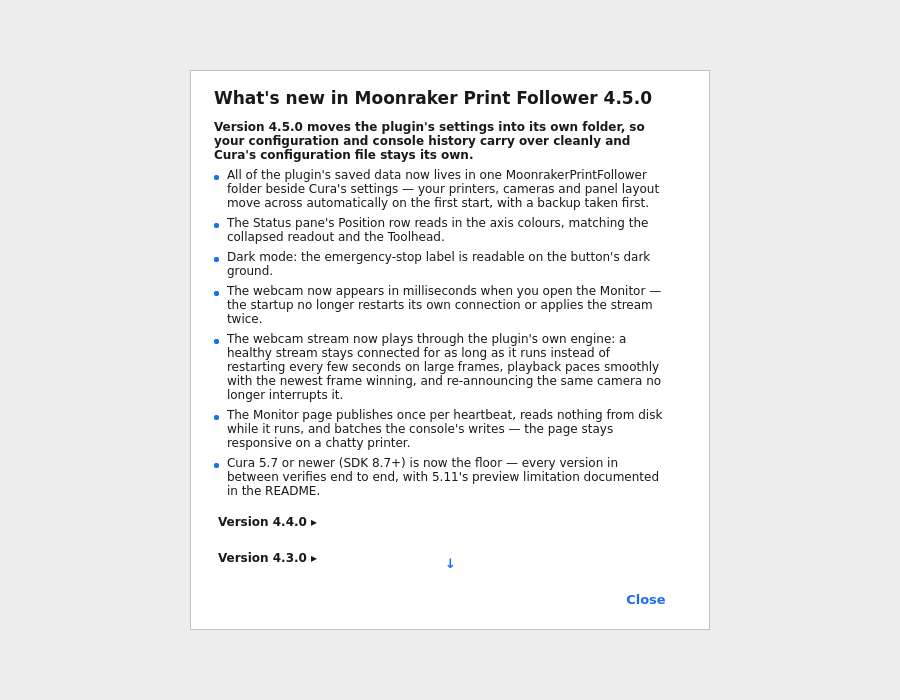
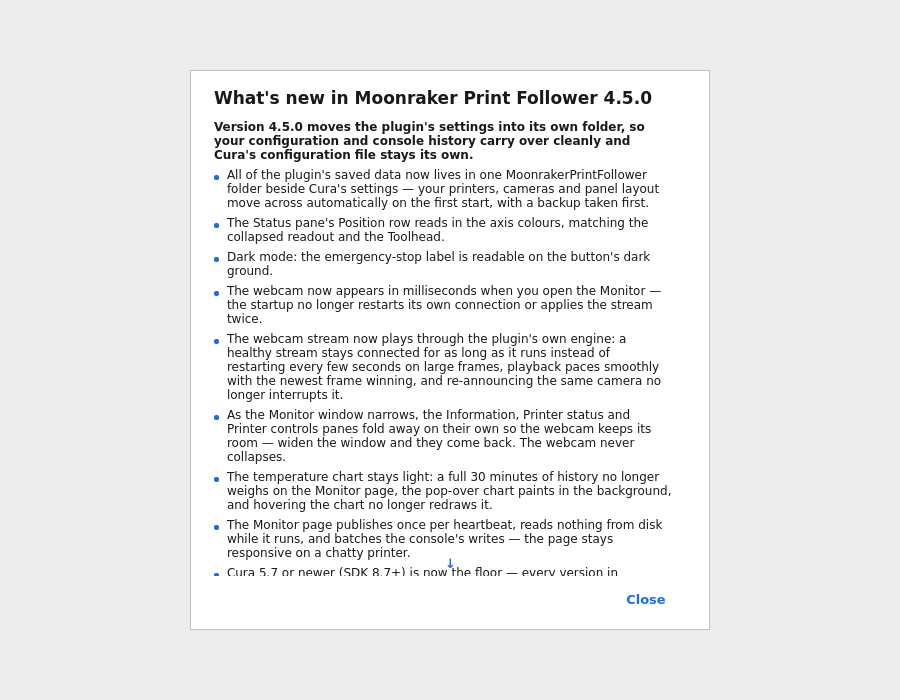
4.5.0: the pre-release hardening pass
- A machine switch now retires the chart pop-over's hydration state:
  a cached monitor that lost ownership serves the dormant full
  payload until the chart is explicitly reopened (the A -> B -> A
  reuse regression is covered in the ownership battery).
- The Release matrix gains the firstinstall leg and the missing
  configure and stress groups: the workflow now runs every unit the
  local release gate runs, including the two-boot clean-install
  persistence journey.
- The mini-chart documentation now states the shipped contract
  precisely: the transferred/rendered representation is bounded
  independently of history length; construction still performs one
  bounded-history scan.
- The release notes cover the narrow-window contract, the
  temperature-chart architecture and the camera chip, and the
  INSTRUCTIONS compatibility note reads the current 5.7-5.13 /
  SDK 8.7-8.12 range.

Changed region(s): [[0.2489, 0.57, 0.7467, 0.84], [0.5911, 0.81, 0.6844, 0.84]]

diff --git a/tests/test_monitor_ownership.py b/tests/test_monitor_ownership.py
@@ -111,6 +111,52 @@ class MonitorOwnershipTests(OutputDeviceTestCase):
         monitor_a.previewBlockChanged.emit({"remainder": 11})
         self.assertEqual(follower.blocks, [{"remainder": 11}])
 
+    def test_a_deposed_monitor_retires_its_open_chart(self):
+        # A(open chart) -> B -> A(cached reuse) must not silently
+        # resume full-history construction: the pop-over's hydration
+        # state is transient UI and retires with the ownership.
+        app, client, follower, plugin = self._install()
+        monitor_a = plugin._current.activePrinter
+
+        def chart_of(monitor):
+            chart = monitor.temperatureChartFull
+            return chart if isinstance(chart, dict) else chart.value()
+
+        # Enough history for a non-empty chart, then open it.
+        monitor_a._history.observe(
+            {"extruder": {"temperature": 200.0, "target": 210.0, "power": 0.5}},
+            1000.0, 1000000.0)
+        monitor_a._history.observe(
+            {"extruder": {"temperature": 200.5, "target": 210.0, "power": 0.5}},
+            1002.5, 1000002.5)
+        monitor_a.setChartOpen(True)
+        self.assertTrue(chart_of(monitor_a)["series"], "the open chart hydrates")
+
+        self._switch(app, follower, plugin, "B")
+        self.assertFalse(monitor_a._data._active)
+        self.assertFalse(monitor_a._chart_open,
+                         "ownership loss must retire the open chart")
+        self.assertEqual(chart_of(monitor_a)["series"], [],
+                         "the deposed monitor's full payload must be dormant")
+
+        monitor_a_again = self._switch(app, follower, plugin, "A")
+        self.assertIs(monitor_a_again, monitor_a)  # the cached monitor
+        self.assertEqual(chart_of(monitor_a_again)["series"], [],
+                         "the cached monitor must not rehydrate on reactivation")
+        # Further feeds keep it dormant.
+        monitor_a._history.observe(
+            {"extruder": {"temperature": 201.0, "target": 210.0, "power": 0.5}},
+            1005.0, 1000005.0)
+        monitor_a._schedule_publish()
+        self.qt.events(10)
+        self.assertEqual(chart_of(monitor_a)["series"], [],
+                         "feeds must not rebuild the full payload while no chart is open")
+        # An explicit open hydrates; closing returns to dormancy.
+        monitor_a.setChartOpen(True)
+        self.assertTrue(chart_of(monitor_a)["series"])
+        monitor_a.setChartOpen(False)
+        self.assertEqual(chart_of(monitor_a)["series"], [])
+
     def test_repeated_switches_accumulate_no_handlers(self):
         app, client, follower, plugin = self._install()
         monitor_a = plugin._current.activePrinter

diff --git a/plugins/MoonrakerMonitorModel.py b/plugins/MoonrakerMonitorModel.py
@@ -715,6 +715,14 @@ class MoonrakerMonitorModel(PrinterOutputModel):
 
     def _on_invalidated(self):
         self._history.reset()
+        # The chart pop-over's hydration state is transient UI, not
+        # machine state: a cached monitor must not resume full-history
+        # construction after a machine switch while no chart is open
+        # on screen. The publish below then serves the dormant full
+        # payload deterministically (it is served whenever _chart_open
+        # is false), and a later open hydrates normally.
+        self._chart_open = False
+        self._chart_full = None
         # A printer switch must not ring for the previous machine's
         # error lines (the bell's marker counts per-session).
         self._console_errors_seen = 0
@@ -1982,8 +1990,9 @@ class MoonrakerMonitorModel(PrinterOutputModel):
 
     def _chart_mini_value(self):
         """The compact preview (temperatureChartMini): a bounded
-        payload rebuilt per history revision — its cost stops growing
-        once the window outgrows the mini render budget."""
+        payload rebuilt per history revision — its SIZE stops growing
+        once the window outgrows the mini render budget (the build
+        stays one allocation-light scan over the raw window)."""
         key = (self._history.revision, self._chart_config_key())
         if self._chart_mini is None or self._chart_mini_key != key:
             self._chart_mini = mini_chart_payload(self._history, self._chart_config)

diff --git a/tools/benchmark_temperature_chart.py b/tools/benchmark_temperature_chart.py
@@ -13,12 +13,16 @@ measures the per-feed costs separately:
   latest projection the legends' one-scalar-per-sensor read
 
 The interesting column is not the absolute milliseconds (this box is
-not Cura's): it is that the mini payload's point count, its JSON size
-and its build time STOP GROWING once the window outgrows the render
-budget, while the raw history keeps its full resolution — the
-structural guarantee that the closed chart cannot degrade as the
-print matures. The full payload's cost is printed for comparison;
-it only exists while the pop-over is open.
+not Cura's): it is that the mini payload's point count and JSON size
+STOP GROWING once the window outgrows the render budget, while the
+raw history keeps its full resolution — the structural guarantee that
+the closed chart's payload, QVariant conversion and downstream
+rendering cannot degrade as the print matures. The mini BUILD remains
+one deliberate allocation-light scan over the raw window per feed
+(the new sample must be folded into the reduction once), so its wall
+time does grow slowly with the window length — the bounded guarantees
+above are the shipped contract. The full payload's cost is printed
+for comparison; it only exists while the pop-over is open.
 
 Run: python3 tools/benchmark_temperature_chart.py
 """

diff --git a/plugins/WhatsNew.py b/plugins/WhatsNew.py
@@ -49,6 +49,14 @@ WHATS_NEW: Tuple[dict, ...] = (
             "large frames, playback paces smoothly with the newest "
             "frame winning, and re-announcing the same camera no "
             "longer interrupts it.",
+            "As the Monitor window narrows, the Information, Printer "
+            "status and Printer controls panes fold away on their own "
+            "so the webcam keeps its room — widen the window and "
+            "they come back. The webcam never collapses.",
+            "The temperature chart stays light: a full 30 minutes of "
+            "history no longer weighs on the Monitor page, the "
+            "pop-over chart paints in the background, and hovering "
+            "the chart no longer redraws it.",
             "The Monitor page publishes once per heartbeat, reads "
             "nothing from disk while it runs, and batches the "
             "console's writes — the page stays responsive on a "

diff --git a/plugins/MonitorTemperatureHistory.py b/plugins/MonitorTemperatureHistory.py
@@ -372,9 +372,10 @@ def mini_chart_payload(history: "TemperatureHistory", config: Mapping) -> dict:
     """The compact-preview payload (temperatureChartMini): ONLY the
     selected mini series ride along, each as its bounded render
     reduction — never targets or power, which the compact chart does
-    not draw. The payload's size and build cost therefore stop growing
-    once the window outgrows the render budget, and hidden sensors
-    contribute nothing."""
+    not draw. The payload's SIZE therefore stops growing once the
+    window outgrows the render budget (the build stays one
+    allocation-light scan over the raw window per feed), and hidden
+    sensors contribute nothing."""
     config = config if isinstance(config, Mapping) else {}
     visible = config.get("visible") if isinstance(config.get("visible"), Mapping) else {}
     colors = config.get("colors") if isinstance(config.get("colors"), Mapping) else {}

diff --git a/CHANGELOG.md b/CHANGELOG.md
@@ -33,16 +33,32 @@ lands the performance pass across the Monitor page.
   healthy stream stays connected indefinitely (the old loader
   restarted the stream whenever its buffer crossed 2 MB — about once
   a second on a 1080p camera), frames pace to a 30 fps ceiling with
-  the newest frame winning, and memory stays bounded. A camera
-  re-publish that changed only its URL's query no longer restarts
-  the stream, and the camera timing trace no longer re-marks the
-  periodic webcam poll.
+  the newest frame winning, and memory stays bounded. A small chip
+  overlays the live image with the stream's resolution and recent
+  bandwidth, and the camera selector now sits above the image on the
+  title row. A camera re-publish that changed only its URL's query
+  no longer restarts the stream, and the camera timing trace no
+  longer re-marks the periodic webcam poll.
+- **The webcam keeps its room.** As the Monitor window narrows, the
+  Information, Printer status and Printer controls panes fold
+  themselves so the webcam pane never shrinks below its readable
+  minimum — and expand themselves again when the window widens. The
+  webcam pane itself never collapses.
+- **The temperature chart scales.** The mini chart's payload is now a
+  bounded reduction — a fixed budget of render points per series that
+  keeps every spike — instead of the whole accumulated window; the
+  full pop-over chart stays dormant until it is opened (and returns
+  to dormancy when closed); the legends read live values from a tiny
+  per-sensor projection instead of searching the payload; and the
+  chart paints off Cura's main thread, with the hover cursor and
+  markers rebuilt as lightweight scene-graph items that never
+  repaint the chart. A full 30 minutes of history no longer weighs
+  on the Monitor page.
 - **The performance pass.** One monitor publish per heartbeat instead
   of three or four; no preference-file or state-file reads on the
   heartbeat (the config, the migration record and the console
-  transcript hydrate once and cache); the console's server chatter
-  debounces into one write; and the temperature chart builds only the
-  payload the open view renders.
+  transcript hydrate once and cache); and the console's server
+  chatter debounces into one write.
 - **A straighter Z floor.** Stale telemetry can no longer re-arm the
   safety projection between a jog's dispatch and its reflection —
   the promised 0.00 floor stays promised.
@@ -55,9 +71,12 @@ lands the performance pass across the Monitor page.
   button fixed on 5.11 and 5.12.
 - **Fixes:** the console's notes no longer persist across restarts
   (they are session-transient by design), the status column's live
-  values never wrap (the per-second polish-loop warning), an empty
+  values never wrap (the per-second polish-loop warning), the
+  collapsed status strip's ETA readout no longer wraps, an empty
   Moonraker history no longer permanently refuses a file's metadata,
-  and the emergency label's colour answers the theme gate.
+  the emergency label's colour answers the theme gate, and the
+  chart's power-axis labels moved inside the plot's edge (their last
+  glyph clipped at the pop-up's margin).
 
 ## 4.4.0
 

diff --git a/TESTING.md b/TESTING.md
@@ -677,10 +677,11 @@ SimulationView is the ACTIVE view (the Preview stage click).
   `harness_release.sh -j N` runs the same units in per-slot
   containers; the serial default keeps the shared-boot debris proof.
   **ADDED (2026-09-18):** the local matrix also carries the
-  first-install leg (§3) as a 10-minute unit on the primary; the
-  release WORKFLOW's matrix does not run it — its step passes
-  `MODE=suite` for every unit. The soak group stays out of the
-  release path.
+  first-install leg (§3) as a 10-minute unit on the primary, and the
+  release WORKFLOW's matrix runs it the same way — each unit takes
+  its own `mode`, so the first-install step passes `MODE=firstinstall`
+  (with no scenario group) instead of `MODE=suite`. The soak group
+  stays out of the release path.
 
 ## 6. Boundaries
 

diff --git a/INSTRUCTIONS.md b/INSTRUCTIONS.md
@@ -634,8 +634,8 @@ transcription drift):
   pop-over path the capture harness does not exercise).
 - Escape-dismiss hand-test on the pop-overs.
 - Multi-hour Canvas/CPU sanity while printing.
-- One old + one current Cura (the README claims Cura 5.0-5.13 /
-  SDK 8.0-8.12).
+- One old + one current Cura (the README claims Cura 5.7-5.13 /
+  SDK 8.7-8.12).
 Once the workflow's tag-built artifacts exist, unpack the curapackage and
 grep the shipped QML/Python for the verification markers — no `BISECT`,
 no `visible: false` console gate, `GET` (not POST) on the endstop query,
